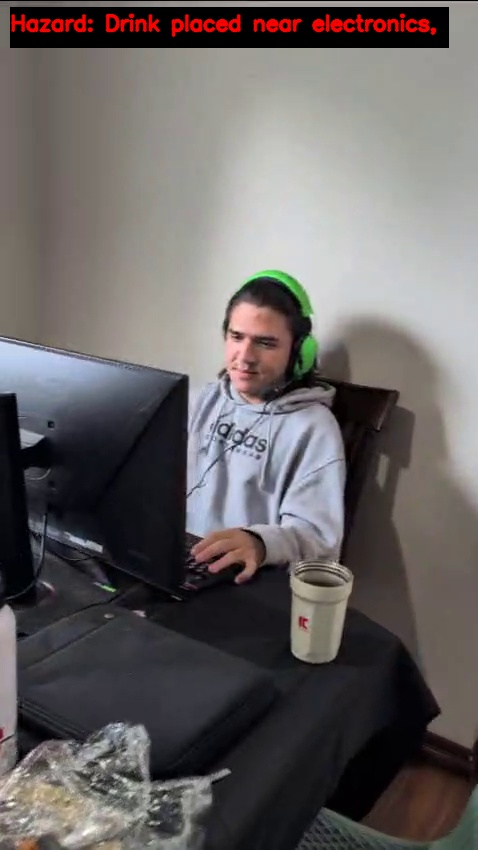
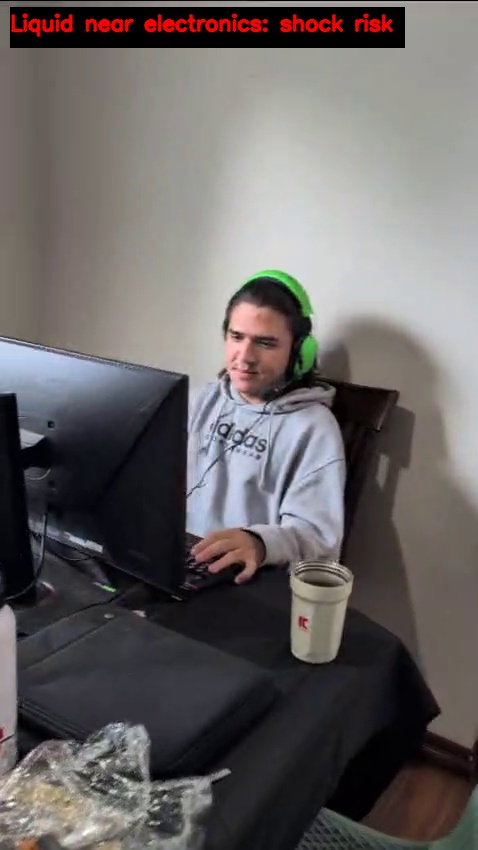
Video End result

Changed region(s): [[0.0293, 0.0, 0.9372, 0.0612]]

diff --git a/src/videotoimage.py b/src/videotoimage.py
@@ -114,6 +114,21 @@ def get_gemini_text_response(prompt, context_text=""):
         # print(f"Raw response: {response.text if 'response' in locals() else 'No response object'}") # Uncomment for verbose debugging
         return None
 
+def get_short_summary_from_gemini(long_text, max_words=5):
+    """
+    Uses Gemini API to generate a short, N-word summary of the given text.
+    """
+    summary_prompt = (
+        f"Summarize the following safety hazard description into a maximum of {max_words} words. "
+        "Make it concise and clear. Do not include 'Hazard:' or 'Summary:'.\n\n"
+        f"Description: {long_text}"
+    )
+    summary = get_gemini_text_response(summary_prompt)
+    if summary:
+        # Ensure it's still max N words, just in case AI goes over
+        return " ".join(summary.strip().split()[:max_words])
+    return "Hazard Detected" # Fallback if summary generation fails
+
 def analyze_video_frames(video_path, frame_sample_rate=30):
     """
     Analyzes video frames for hazards using the Gemini API.
@@ -217,8 +232,10 @@ def analyze_video_frames(video_path, frame_sample_rate=30):
                         frame_filename = f"hazard_frame_{frame_number:05d}.jpg"
                         frame_image_path = os.path.join(hazards_output_dir, frame_filename)
                         
-                        # Prepare text for the image (first hazard's description, truncated)
-                        text_to_display = "Hazard: " + " ".join(current_frame_hazards[0]['description'].split()[:4]) # Max 4 words
+                        # Use Gemini to generate a short, 5-word summary for the overlay
+                        # We'll summarize the description of the *first* detected hazard in this frame
+                        short_summary = get_short_summary_from_gemini(current_frame_hazards[0]['description'], max_words=5)
+                        text_to_display = short_summary
                         
                         # Add text to the image before saving
                         # Define font, scale, color, and thickness
